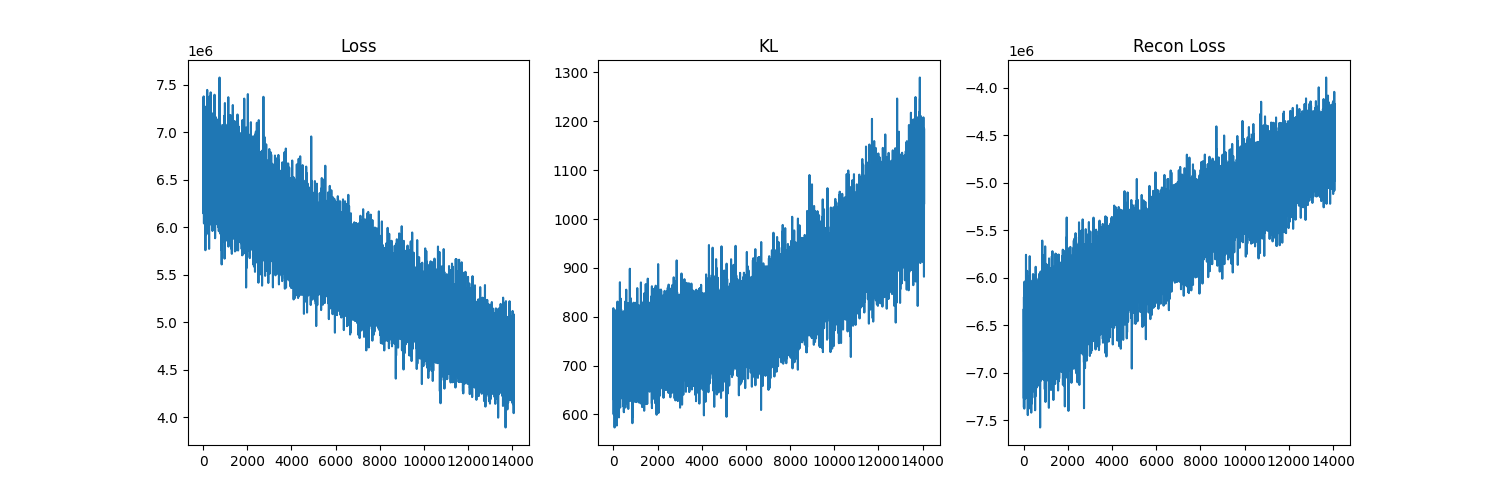
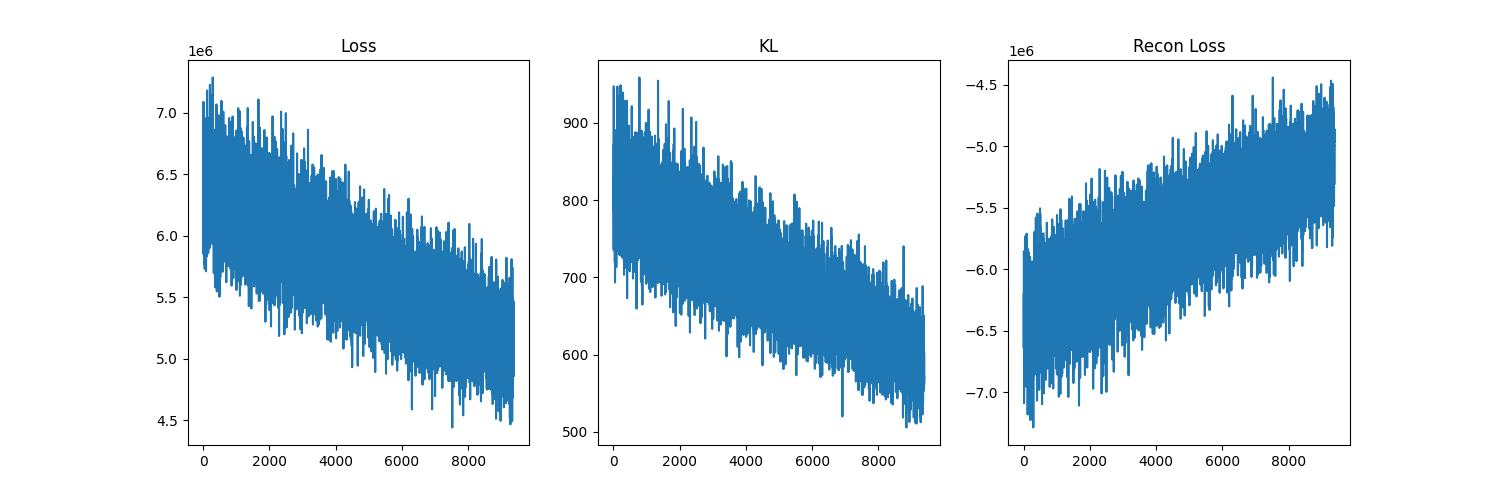
anomaly detection: calculate highest recon. prob. from training data

diff --git a/code/scripts/main.py b/code/scripts/main.py
@@ -35,7 +35,7 @@ def main():
 
     # HYPERPARAMETER
     if MODEL_TO_TRAIN == ModelToTrain.CNN_MNIST:
-        NUM_EPOCHS = 2  if DEVICE == 'cpu' else 15
+        NUM_EPOCHS = 2  if DEVICE == 'cpu' else 10
         BATCH_SIZE = 16 if DEVICE == 'cpu' else 64
         LEARNING_RATE = 5e-8 
     
@@ -106,11 +106,24 @@ def main():
 
     # ANOMALY DETECTION
     print('ANOMALY DETECTION')
-    batch1_X, batch1_y = next(iter(loader_train))
-    batch1_X = batch1_X.to(DEVICE)
 
-    outliers = model.is_anomaly(batch1_X)
-    print(f'\tOutliers: {outliers}')
+    # detect alpha (max reconstruction prob. of train data)
+    alpha:float = 0
+    for x_batch, _ in loader_train:        
+        x_batch = x_batch.to(DEVICE)
+        probs:torch.Tensor = model.reconstruction_probability(x_batch)
+
+        if probs.max().item() > alpha:
+            alpha = probs.max().item()
+            print(f'\tNew alpha: {alpha}')
+
+    print(f'\tAlpha: {alpha}')
+
+    # detect anomalies
+    #batch1_X, batch1_y = next(iter(loader_train))
+    #batch1_X = batch1_X.to(DEVICE)
+    #outliers = model.is_anomaly(batch1_X)
+    #print(f'\tOutliers: {outliers}')
 
 if __name__ == "__main__": 
     main()

diff --git a/code/scripts/model.py b/code/scripts/model.py
@@ -84,15 +84,18 @@ class IVAE(nn.Module, ABC):
 
     #=================[ANOMALY DETECTION]==============
     def is_anomaly(self, x: torch.Tensor, alpha: float = 0.05) -> torch.Tensor:
-        x = x.float()  # Convert input to torch.float32
-
-        #  reconstructed probability
+        p = self.reconstruction_probability(x)
+        return p < alpha
+    
+    def reconstruction_probability(self, x: torch.Tensor) -> torch.Tensor:
+        x = x.float()
         with torch.no_grad():
             pred = self.predict(x)
+
         recon_dist = Normal(pred['recon_mu'], pred['recon_sigma'])
         x = x.unsqueeze(0)
         p = recon_dist.log_prob(x).exp().mean(dim=0).mean(dim=-1)  # vector of shape [batch_size]
-        return p < alpha
+        return p
 
 class VAE_CNN(IVAE):
     def __init__(
